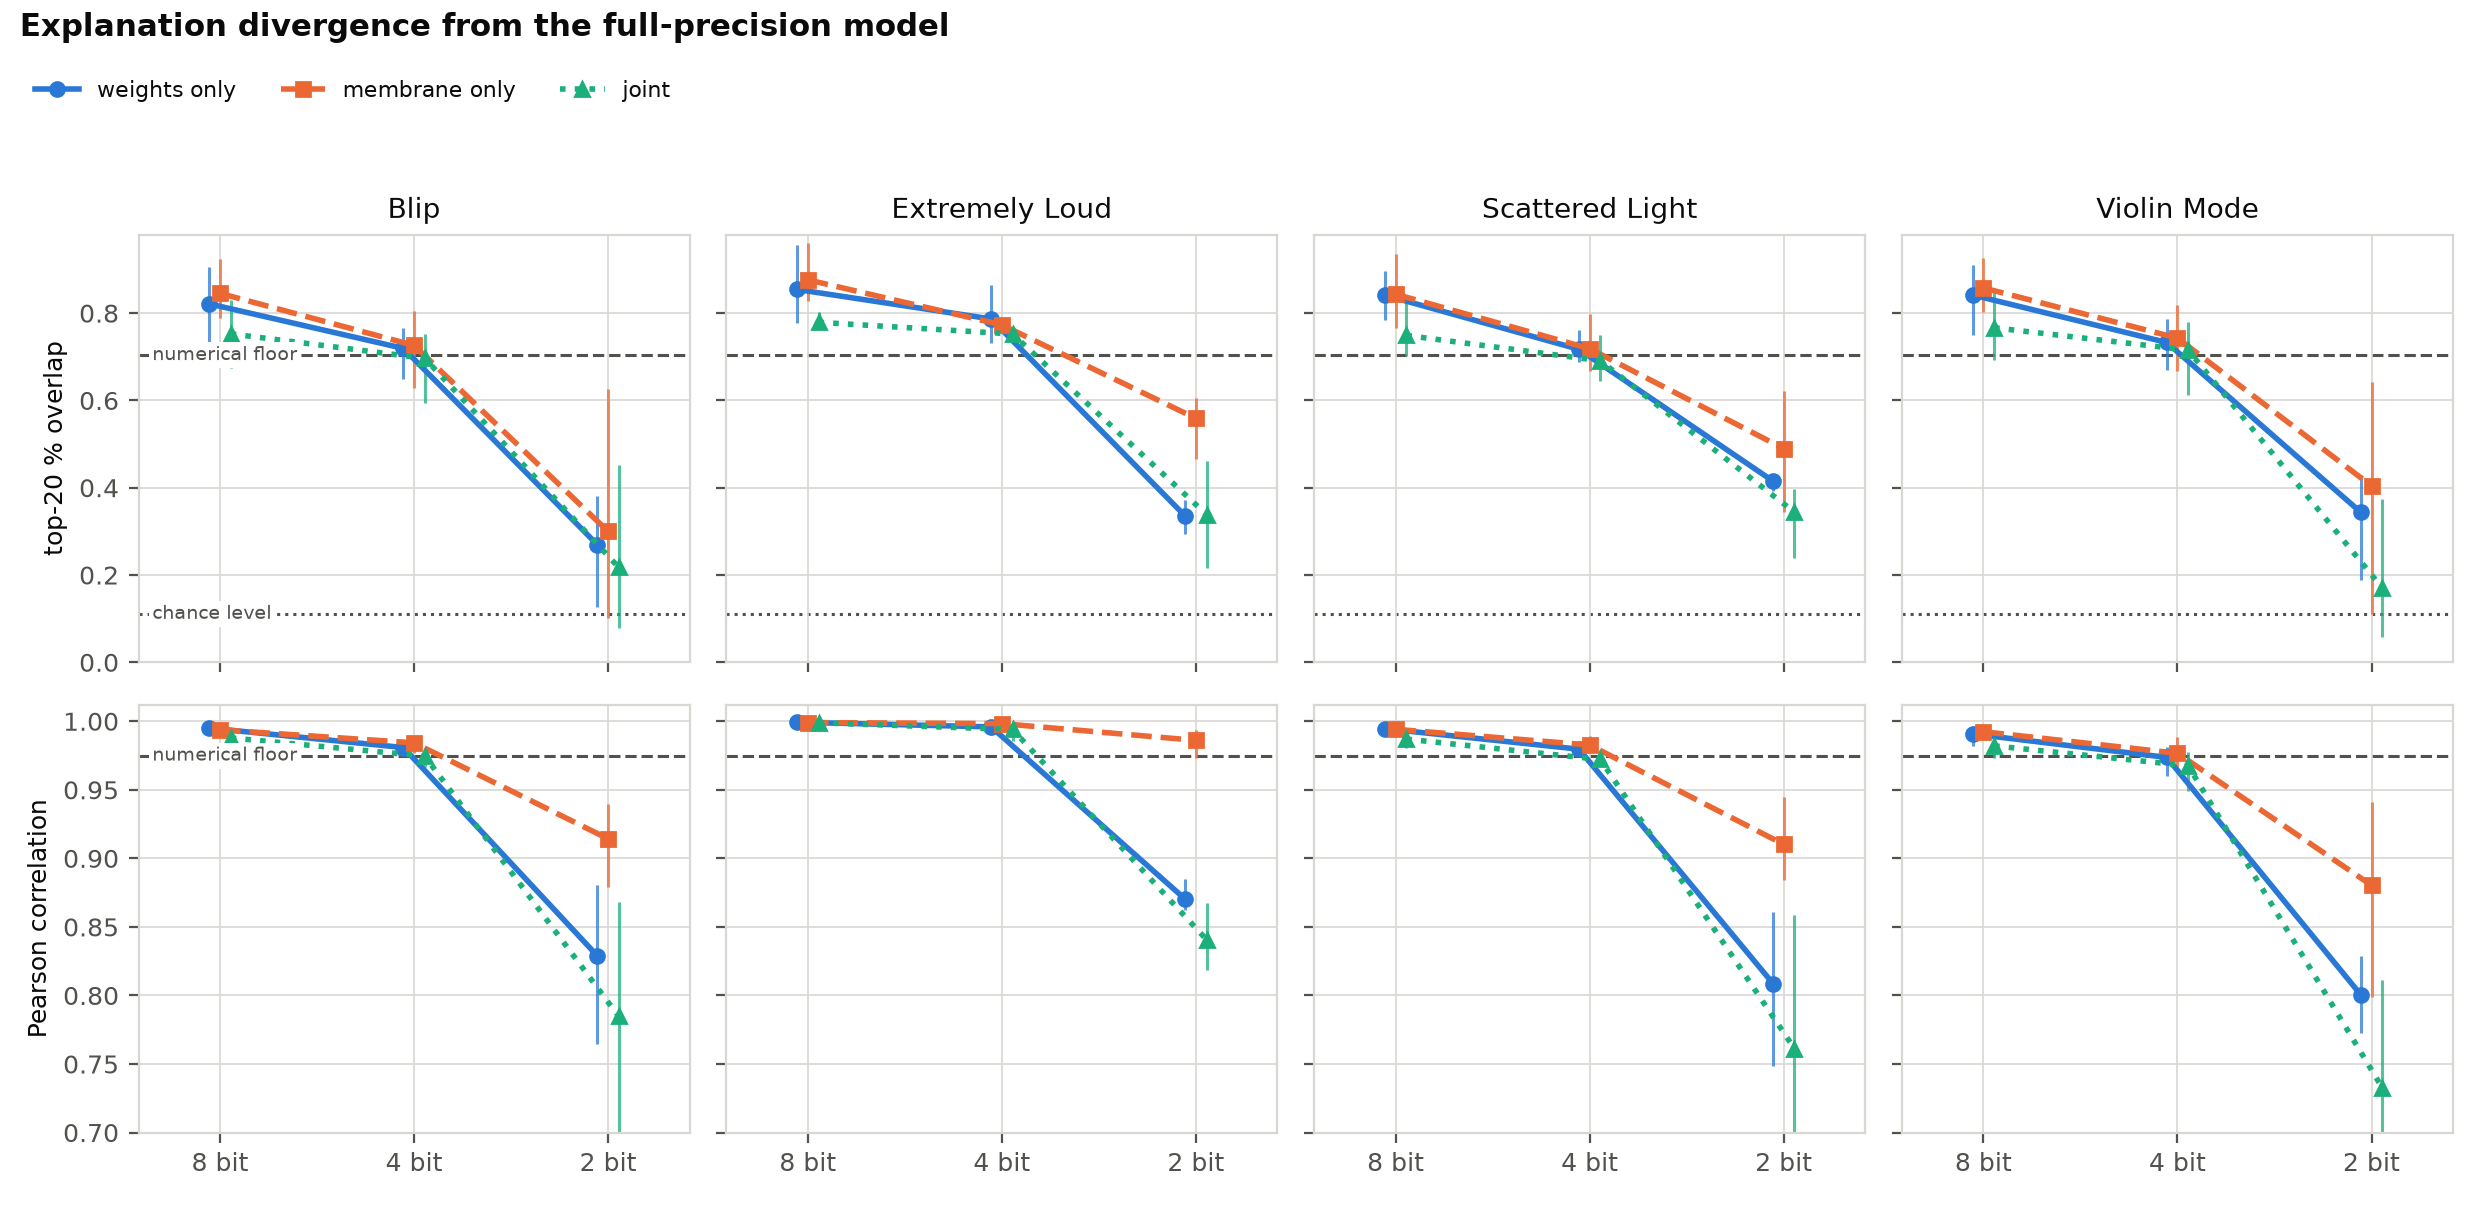
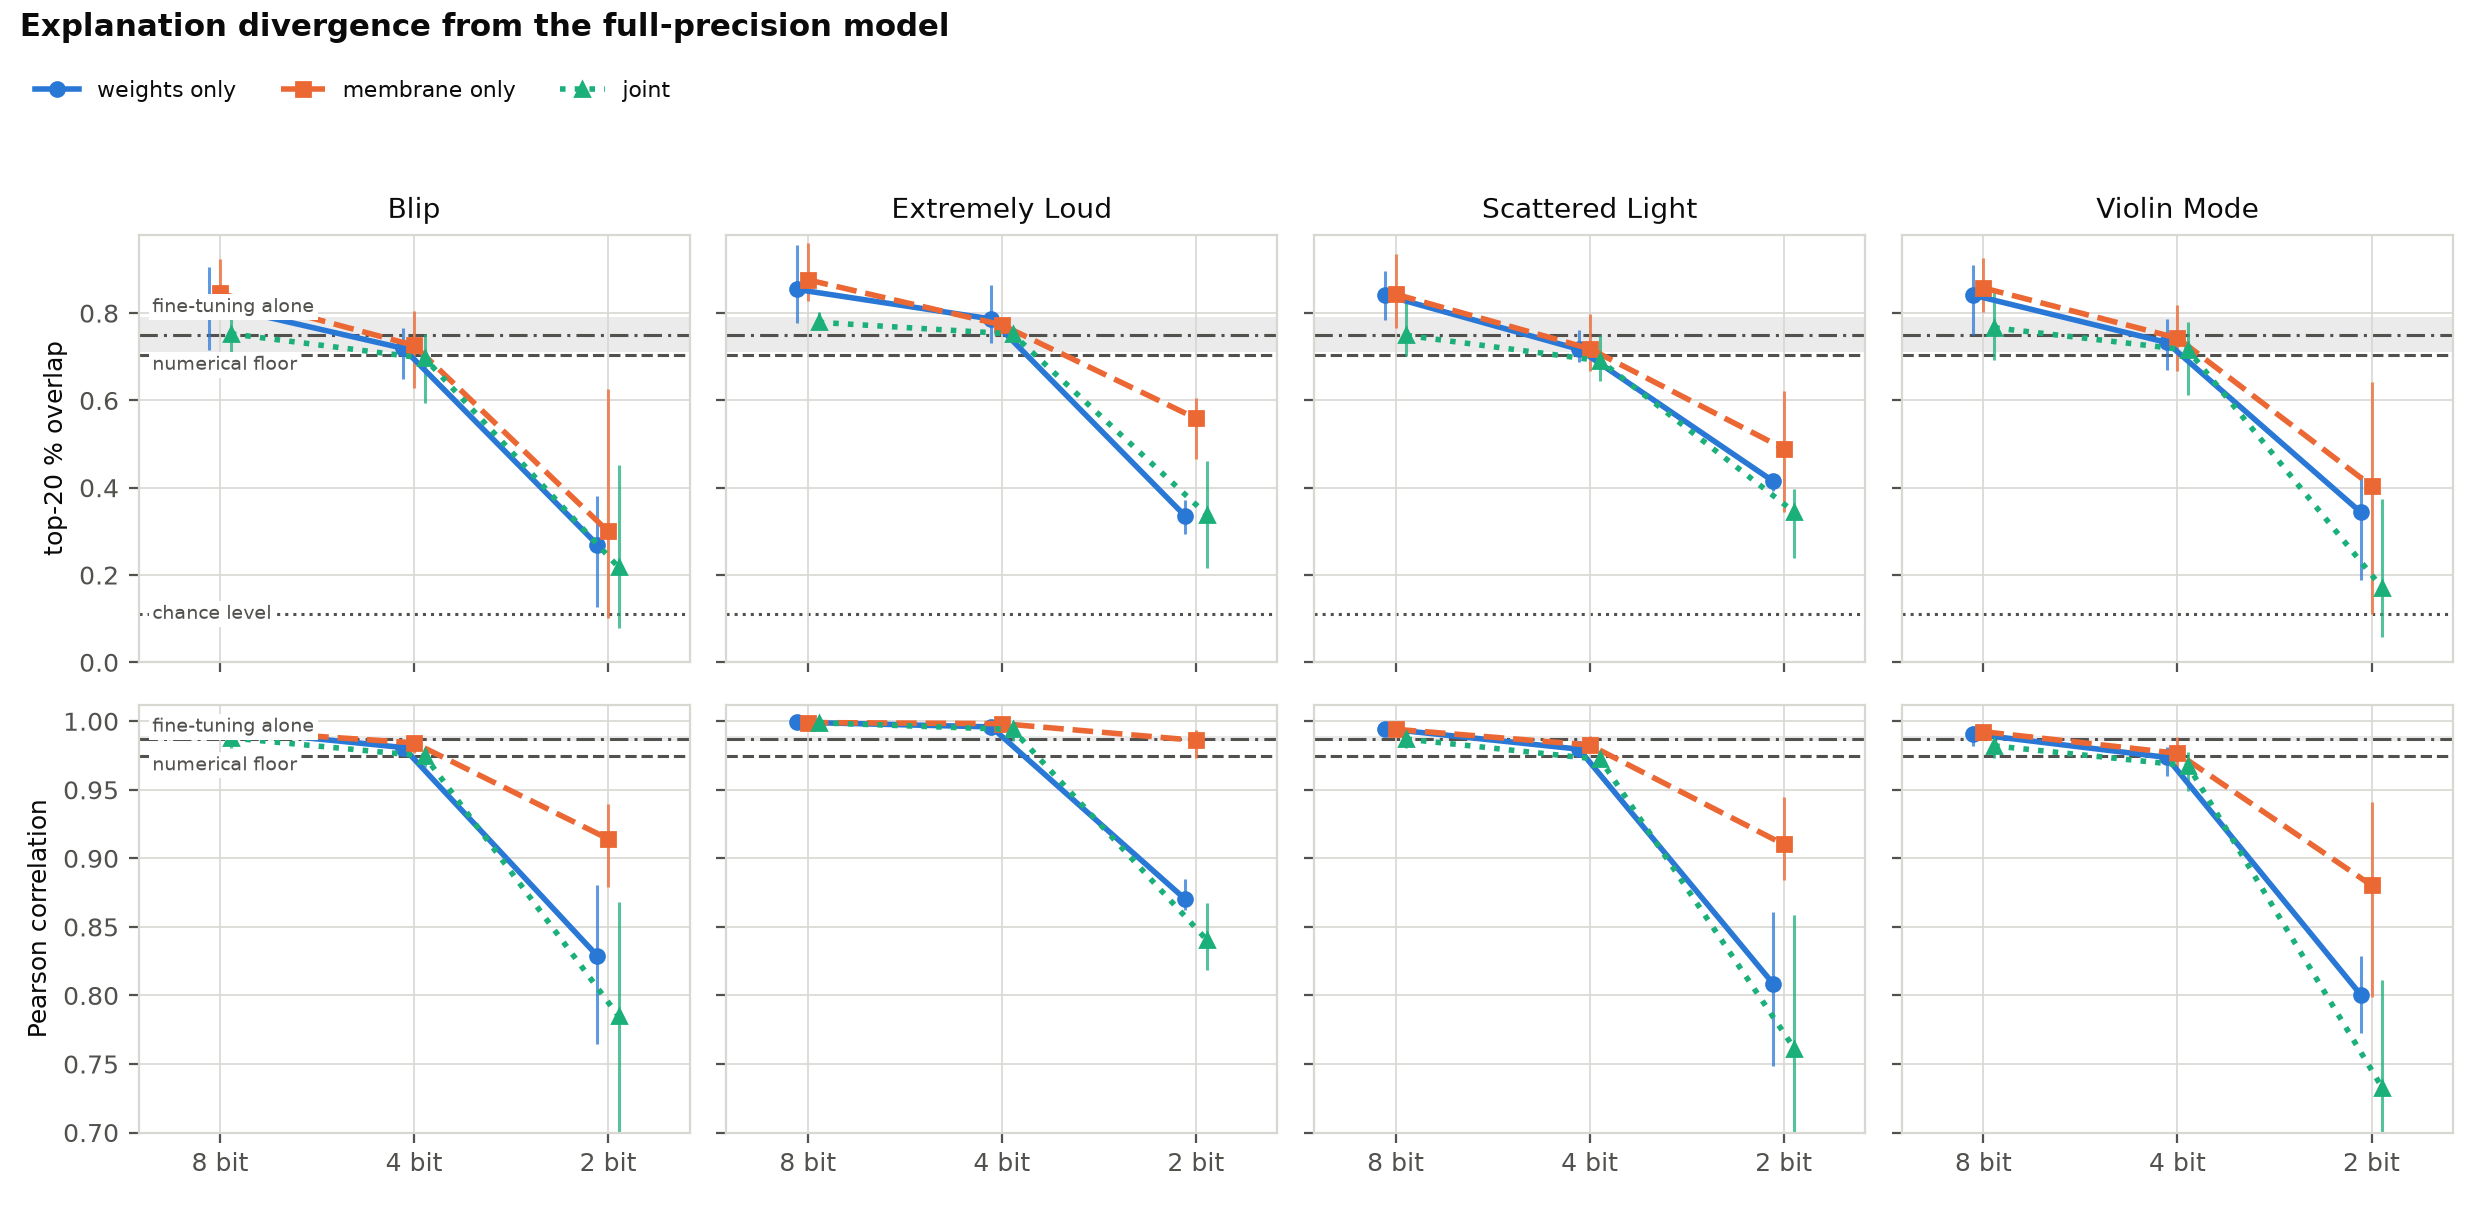
anchor

Changed region(s): [[0.0621, 0.218, 0.1242, 0.3115], [0.0621, 0.5918, 0.1242, 0.6541]]

diff --git a/scripts/result_figures.py b/scripts/result_figures.py
@@ -103,7 +103,8 @@ def frame(fig, title=None, legend=None, legend_cols=3, hspace=None,
                  fontsize=9, color=INK)
 
 
-def reference_line(ax, y, label=None, style=':', gutter=False, axis='y'):
+def reference_line(ax, y, label=None, style=':', gutter=False, axis='y',
+                   va=None):
     # reference levels are drawn under the data
     (ax.axhline if axis == 'y' else ax.axvline)(
         y, color=MUTED, linestyle=style, linewidth=1.1, zorder=1)
@@ -111,9 +112,31 @@ def reference_line(ax, y, label=None, style=':', gutter=False, axis='y'):
         return
     xy = (0.012 if gutter else 0.025, y) if axis == 'y' else (y, 0.26)
     coords = ('axes fraction', 'data') if axis == 'y' else ('data', 'axes fraction')
-    ax.annotate(label, xy=xy, xycoords=coords, va='center' if axis == 'y' else 'bottom',
+    ax.annotate(label, xy=xy, xycoords=coords, va=va or ('center' if axis == 'y' else 'bottom'),
                 ha='left' if axis == 'y' else 'center', fontsize=7, color=MUTED,
                 zorder=5, bbox=dict(facecolor='white', edgecolor='none', pad=1.2))
+
+
+def reference_band(ax, low, high, mid, label=None, gutter=False):
+    # An anchor measured over three seeds is a band
+    ax.axhspan(low, high, color=MUTED, alpha=0.11, linewidth=0, zorder=1)
+    ax.axhline(mid, color=MUTED, linestyle=(0, (6, 2, 1, 2)), linewidth=1.1,
+               zorder=1)
+    if label:
+        ax.annotate(label, xy=(0.012 if gutter else 0.025, high),
+                    xycoords=('axes fraction', 'data'), va='bottom', ha='left',
+                    fontsize=7, color=MUTED, zorder=5,
+                    bbox=dict(facecolor='white', edgecolor='none', pad=1.2))
+
+
+def anchor_bands(fa):
+    # (low, high, mid) for each metric, over the seeds of the control arm
+    finals = [r['checkpoints']['final'] for r in fa['runs'].values()]
+    out = {}
+    for key, field in (('iou', 'mean_iou'), ('pcc', 'mean_pcc')):
+        v = [f[field] for f in finals]
+        out[key] = (min(v), max(v), float(np.mean(v)))
+    return out
 
 
 def spread(ax, x, low, high, colour):
@@ -122,7 +145,7 @@ def spread(ax, x, low, high, colour):
 
 # 1. Divergence of the explanation, per class, against bit width
 
-def divergence_figure(div, classes):
+def divergence_figure(div, classes, anchor=None):
     runs = div['runs']
     floor, chance = div['floor'], div['top_k'] / (2 - div['top_k'])
 
@@ -159,13 +182,17 @@ def divergence_figure(div, classes):
                                           ('pcc', 'Pearson correlation'))):
             ax = axes[row, j]
             first = (j == 0)
+            key_metric = 'iou' if row == 0 else 'pcc'
+            if anchor:
+                low, high, mid = anchor[key_metric]
+                reference_band(ax, low, high, mid,
+                               'fine-tuning alone' if first else None)
+            # The floor label sits below its own line: the anchor band runs
+            # just above it and the two would otherwise overlap.
+            reference_line(ax, floor[key_metric],
+                           'numerical floor' if first else None, '--', va='top')
             if row == 0:
-                reference_line(ax, floor['iou'],
-                               'numerical floor' if first else None, '--')
                 reference_line(ax, chance, 'chance level' if first else None)
-            else:
-                reference_line(ax, floor['pcc'],
-                               'numerical floor' if first else None, '--')
             for arm, (c, mk, ls, name) in ARM_STYLE.items():
                 s, xd = series(arm, cls, key), x + DODGE[arm]
                 spread(ax, xd, s[:, 1], s[:, 2], c)
@@ -444,7 +471,7 @@ def spike_figure():
 
 # 6. final figure: accuracy, explanation, energy against bit width
 
-def summary_figure(div, energy, test, grid, classes):
+def summary_figure(div, energy, test, grid, classes, anchor=None):
     floor, chance = div['floor'], div['top_k'] / (2 - div['top_k'])
     res, bases = energy['results'], energy['baselines']
 
@@ -490,7 +517,11 @@ def summary_figure(div, energy, test, grid, classes):
     ax.set_ylabel('test accuracy')
 
     ax = axes[1]
-    reference_line(ax, floor['iou'], 'numerical floor', '--', gutter=True)
+    if anchor:
+        low, high, mid = anchor['iou']
+        reference_band(ax, low, high, mid, 'fine-tuning alone', gutter=True)
+    reference_line(ax, floor['iou'], 'numerical floor', '--', gutter=True,
+                   va='top')
     reference_line(ax, chance, 'chance level', gutter=True)
     for arm, (c, mk, ls, name) in ARM_STYLE.items():
         s, xd = [r for r in rows if r['arm'] == arm], x + DODGE[arm]
@@ -546,18 +577,24 @@ def main():
     strat = load('stratified.json')
     energy = load('energy.json')
     grid_analysis = load('grid_analysis.json')
+    anchor_path = RESULTS / 'finetuning_anchor.json'
+    anchor = (anchor_bands(json.loads(anchor_path.read_text(encoding='utf-8')))
+              if anchor_path.exists() else None)
+    if anchor is None:
+        print('  (no results/finetuning_anchor.json: the fine-tuning anchor '
+              'will not be drawn)')
     test = json.loads((RESULTS / 'test' / 'test_evaluation.json').read_text(encoding='utf-8'))
     grid = {p.stem: json.loads(p.read_text(encoding='utf-8'))
             for p in (RESULTS / 'grid').glob('*.json')}
     classes = test['classes']
 
     print('tables and figures:')
-    divergence_figure(div, classes)
+    divergence_figure(div, classes, anchor)
     faithfulness_figure(cf, classes)
     stratification_figure(strat, classes)
     behaviour_figure(grid_analysis, div, classes)
     spike_figure()
-    summary_figure(div, energy, test, grid, classes)
+    summary_figure(div, energy, test, grid, classes, anchor)
     test_table(test)
     print(f'\nfigures in {FIGURES}/, tables in {TABLES}/')
 
